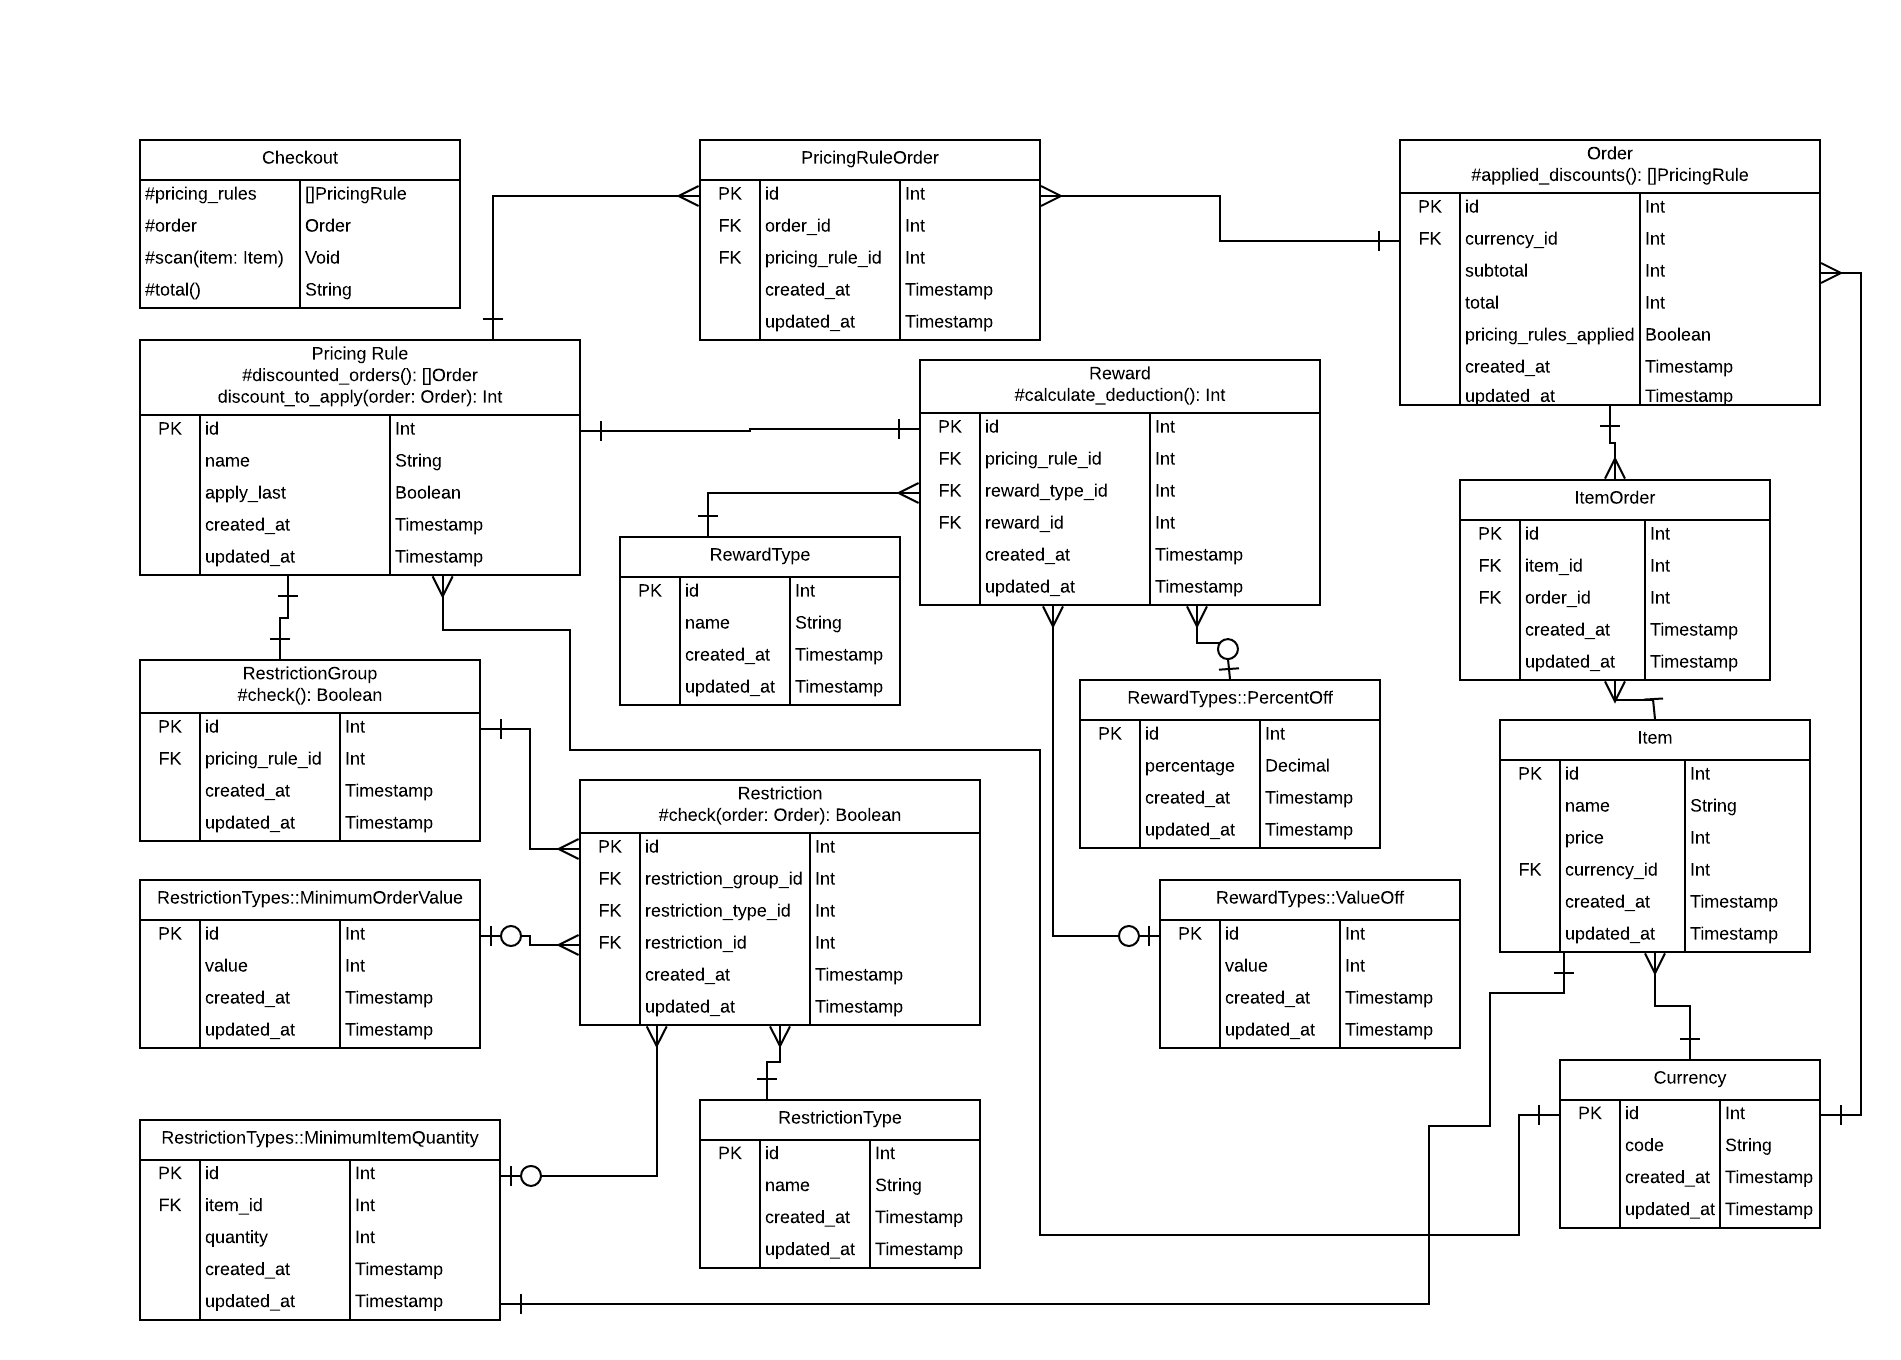
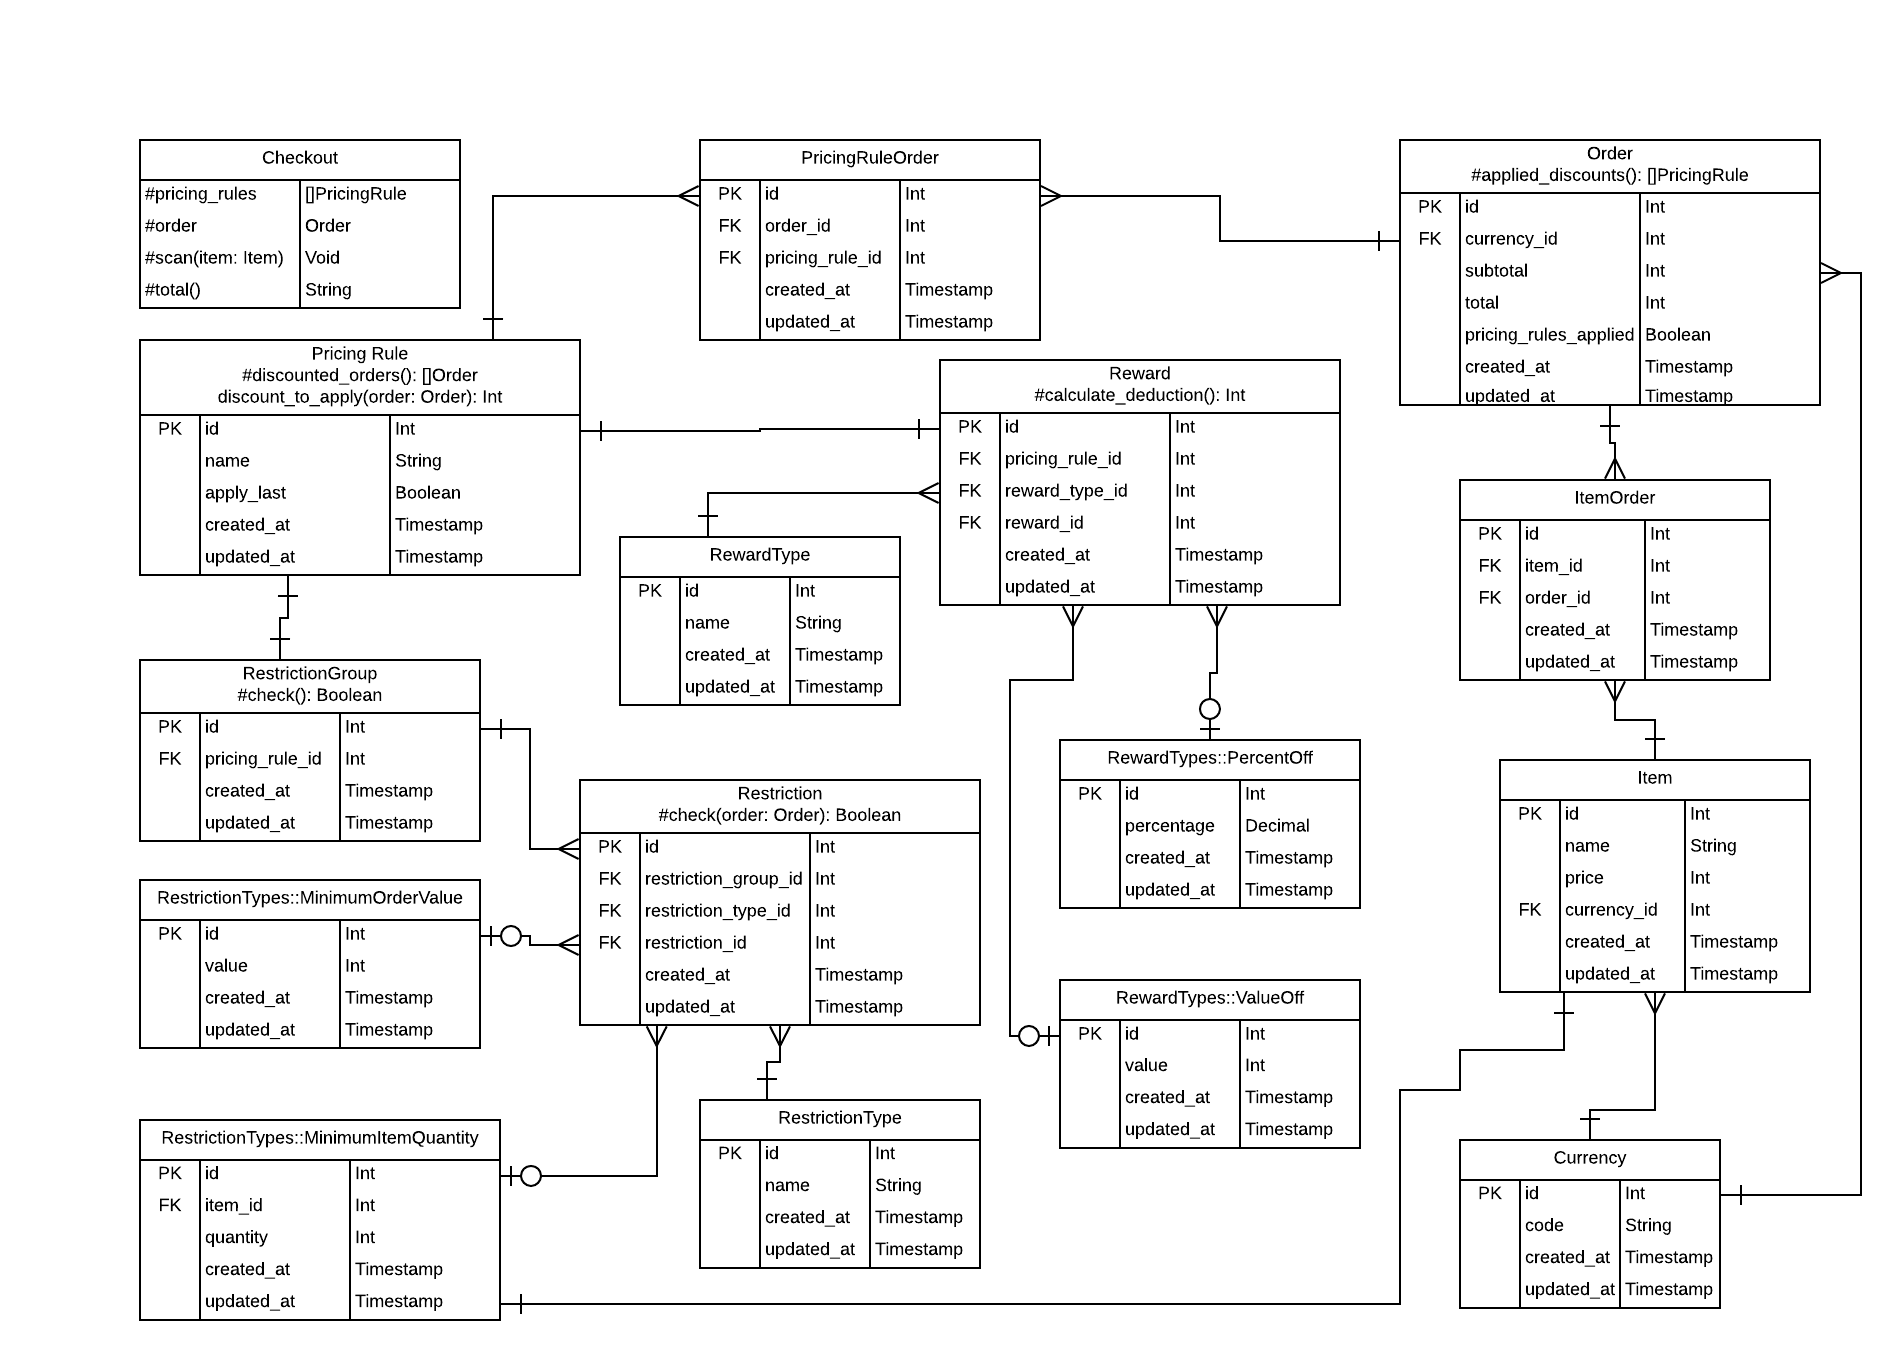
Fixing typos in INSTRUCTIONS.md
Have also replaced the ERD as the previous image contained an
association that didn't exist.

diff --git a/INSTRUCTIONS.md b/INSTRUCTIONS.md
@@ -52,8 +52,8 @@ Drop the test and development databases:
 
 ## Running the app
 
-This repo is built with a CLI tool for that can be used to add and remove items
-from an order and calculate the total amount that a customer will have to pay.
+The CLI tool can be used to add and remove items from an order and calculate the
+ total amount that a customer will have to pay.
 
 To initialise the CLI:
 
@@ -94,7 +94,7 @@ but hopefully should give the observer some idea of the database schema.
 
 The first table written was the `currencies` table and both `items` and `orders`
 have a `belongs_to` relationship with it. This app assumes that a supermarket
-will only handle items with a single currency so some changes would be needed to
+will only handle items with a single currency so some changes are needed to
 support transactions in multiple currencies. Currently the app uses GBP by the
 default and though the Checkout model lists currency as an optional parameter, the CLI currently does not allow the user to switch currency.
 
@@ -107,7 +107,7 @@ a single restriction that corresponds to the reward, the app has been written to
 allow of the creation of rules with multiple restrictions placed on it, which is
 grouped into  `restriction_groups`. A pricing rule is only permitted to have one
 reward associated with it. Currently, this means that pricing rules with more
-than one restrictions may apply the same reward multiple times. It is unclear to
+than one restriction may apply the same reward multiple times. It is unclear to
 me whether this is desirable behaviour but as this represents an unusual
 edge-case, I am relunctant alter this functionality.
 
@@ -119,16 +119,16 @@ whether an order is eligible for a discount. Each Reward type must have a
 `calculate_deduction` method which will eventually be aplied to the order total
 displayed to the user. The two concepts are an attempt to model polymorphism at
 the database level and splitting up the `PriningRule` entity in this way allows
-for the creation of more modular pricing rules going forards.
+for the creation of more modular pricing rules going forwards.
 
 
 ### Orders
 
 Scanned items in the app are added to an entity known as the "Order" model.
-Halfway through the project, it did occur to me the "Basket" might have been a
+Halfway through the project, it did occur to me that "Basket" might have been a
 more suitable name ("order" suggests a collection of items that have not yet
 arrrived whereas the app is supposed to model behaviour found in a supermarket
-which would involve a basket that the customer presents at checkout). This was
+which would involve a "basket" that the customer presents at checkout). This was
 left unchanged as I felt that my time would be better spent elsewhere. Were this
 CLI ever refactored, it might make sense to rename the model and related tables.
 
